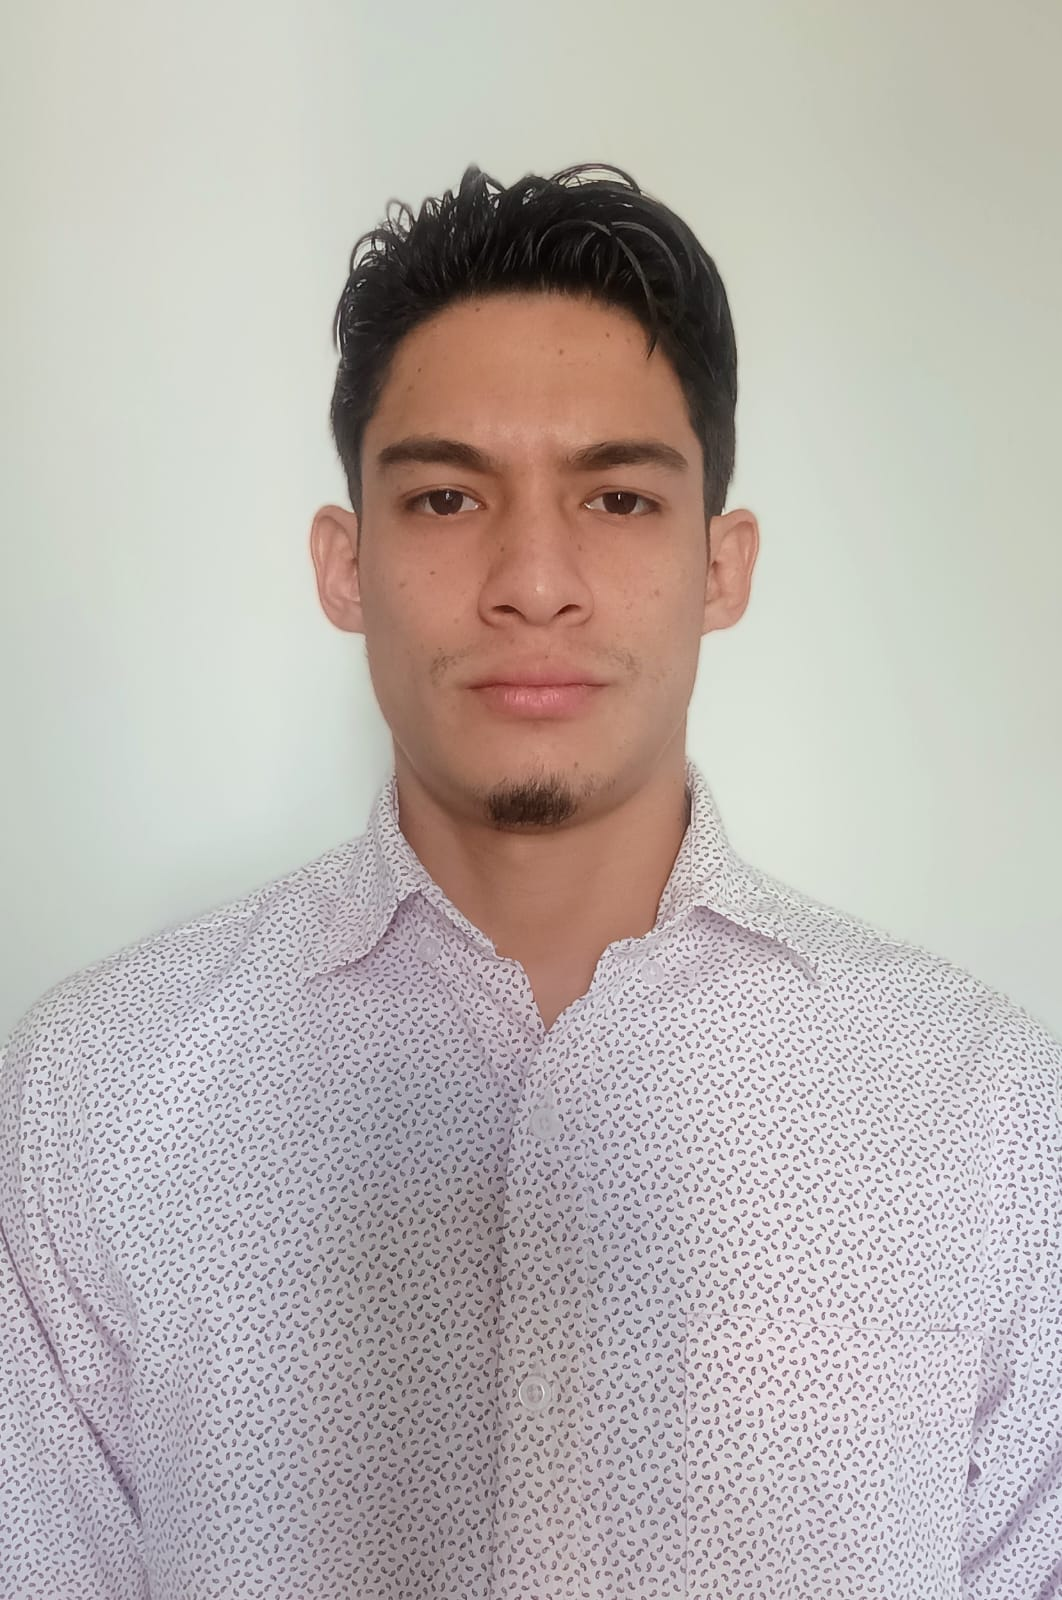
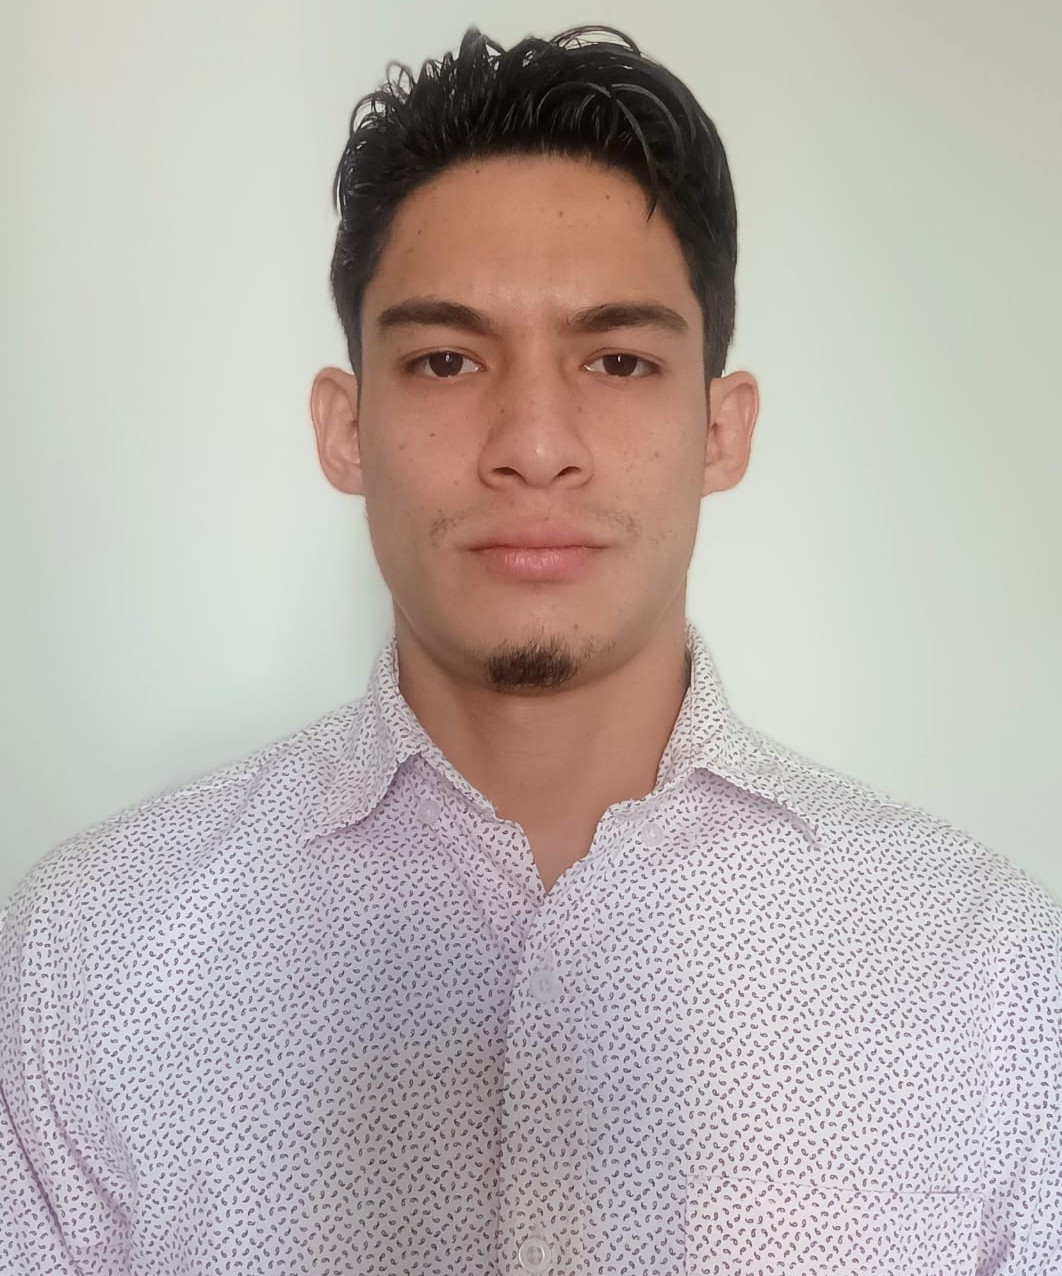
Actualiza tamaño foto

Changed region(s): [[0.0, 0.4279, 1.0, 1.0], [0.2797, 0.0, 0.7147, 0.3973], [0.435, 0.3668, 0.5593, 0.3973]]

diff --git a/src/style.css b/src/style.css
@@ -52,7 +52,7 @@ body {
 
 .profile-img {
     width: 150px;
-    height: 150px;
+    height: 175px;
     border-radius: 50%;
     object-fit: cover;
     border: 4px solid var(--accent);
@@ -432,8 +432,8 @@ body {
     }
 
     .profile-img {
-        width: 120px;
-        height: 120px;
+        width: 160px;
+        height: 180px;
     }
 
     .skills-grid,
